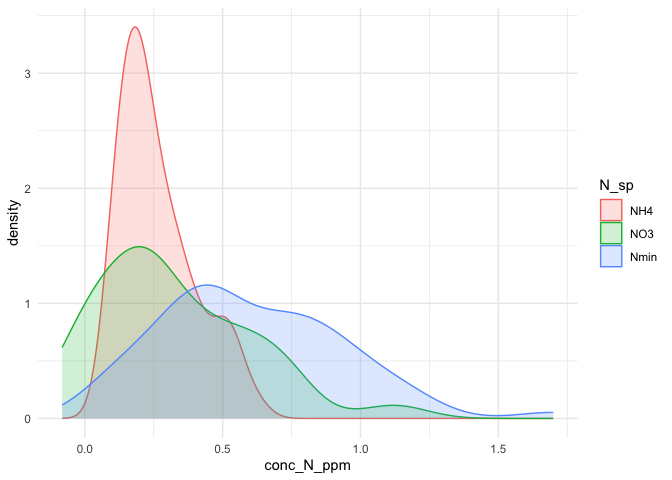
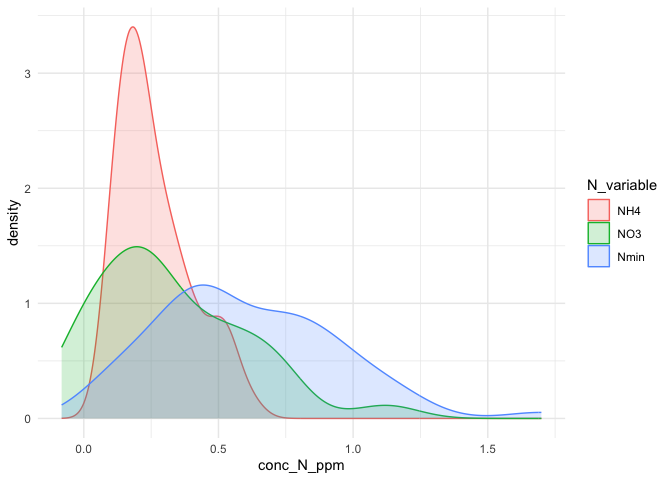
minor changes

diff --git a/5_expl_anal.md b/5_expl_anal.md
@@ -77,30 +77,13 @@ library(RColorBrewer)
 <summary>Code</summary>
 
 ``` r
-Nmin_tfo <- read_rds("output/data/4_Nmin_tfo.rds")
-Nmin_tfo
+Nmin_tfo1 <- read_rds("output/data/4_Nmin_tfo1.rds")
+Nmin_tfo2 <- read_rds("output/data/4_Nmin_tfo2.rds")
+
+#Nmin_tfo1
 ```
 
 </details>
-
-    # A tibble: 180 × 19
-    # Rowwise: 
-       expe  sample_short sd_c  soil  crop_diversity cs    bloc  sampling_time
-       <chr> <chr>        <chr> <fct> <fct>          <fct> <fct> <chr>        
-     1 Pot   1_t2         Conv  Conv  SC             F     B1    t2           
-     2 Pot   1_t2         Conv  Conv  SC             F     B1    t2           
-     3 Pot   1_t2         Conv  Conv  SC             F     B1    t2           
-     4 Pot   2_t2         Conv  Conv  SC             W     B1    t2           
-     5 Pot   2_t2         Conv  Conv  SC             W     B1    t2           
-     6 Pot   2_t2         Conv  Conv  SC             W     B1    t2           
-     7 Pot   3_t2         Conv  Conv  IC             IC    B1    t2           
-     8 Pot   3_t2         Conv  Conv  IC             IC    B1    t2           
-     9 Pot   3_t2         Conv  Conv  IC             IC    B1    t2           
-    10 Pot   5_t2         SdC1  Ref   SC             F     B1    t2           
-    # ℹ 170 more rows
-    # ℹ 11 more variables: plate_id <chr>, N_sp <chr>, dataset <chr>, std_sp <chr>,
-    #   wc <dbl>, dm <dbl>, conc_N_ppm_rt1 <dbl>, conc_N_ppm_rt2 <dbl>,
-    #   conc_N_ppm_rt3 <dbl>, conc_N_ppm_rt4 <dbl>, conc_N_ppm_avg <dbl>
 
 ## 1.2 - plots
 
@@ -116,14 +99,15 @@ average) per N species
 
 ``` r
 # need to pivot to get 4 tech rep in one column. But !! also average will be taken
-Nmin_tfo_longer <- Nmin_tfo |> pivot_longer(
+#** °°°°° Pivot according to rep tech °°°°° *
+Nmin_rep_tech_longer <- Nmin_tfo1 |> pivot_longer(
   cols = starts_with("conc"),
   values_to = "conc_N_ppm",
   names_to = "rep_tech"
 ) 
 
 # plot with all rep techs
-Nmin_tfo_longer |> 
+Nmin_rep_tech_longer |> 
   # filter out the average
   filter(rep_tech != "conc_N_ppm_avg") |> 
   ggplot(aes(x = conc_N_ppm)) +
@@ -143,7 +127,7 @@ Nmin_tfo_longer |>
 
 ``` r
 # plot with averages
-Nmin_tfo_longer |> 
+Nmin_rep_tech_longer |> 
   # filter out the average
   filter(rep_tech == "conc_N_ppm_avg") |> 
   ggplot(aes(x = conc_N_ppm)) +
@@ -164,63 +148,47 @@ Nmin_tfo_longer |>
 <summary>Code</summary>
 
 ``` r
-# To correct NO3, we need to pivot wider so that different N_sp are in different columns
-Nmin_tfo_wider <- Nmin_tfo |> 
-  select(expe:sampling_time, N_sp, conc_N_ppm_avg) |> 
-  pivot_wider(
-    names_from = N_sp,
-    names_prefix = "conc_",
-    values_from = conc_N_ppm_avg
-  ) |> 
-  mutate(
-    conc_NO3_neat = conc_NO3-conc_NO2,
-    conc_Nmin = conc_NO3 + conc_NH4, # NO2 not included here bc it is already included in NO3
-    conc_NO3_Nmin = conc_NO3_neat / conc_Nmin,
-    conc_NH4_NO3 = conc_NH4 / conc_NO3_neat) |> 
-  # remove NO3 so no mistake is made, and rename NO3_neat
-  select(!conc_NO3) |> 
-  rename(conc_NO3 = conc_NO3_neat) 
-
-Nmin_tfo_corrected <- Nmin_tfo_wider |> 
-  # then we re-pivot so plotting with wrap is easy (and without also --° use filter)
+Nmin_N_variable_longer <- Nmin_tfo2 |> 
+  # then we re-pivot so plotting will wrap is easily (and without also --° use filter)
+  #** °°°°° Pivot according to N_variable
   pivot_longer(
     cols = starts_with("conc"),
-    names_to = "N_sp",
+    names_to = "N_variable",
     names_prefix = "conc_",
     values_to = "conc_N_ppm") |> 
   # make N_sp a factor with correct order
-  mutate(N_sp = factor(N_sp, levels = c("NO2", "NH4", "NO3", "Nmin", "NO3_Nmin", "NH4_NO3")))
+  mutate(N_variable = factor(N_variable, levels = c("NO2", "NH4", "NO3", "Nmin", "NO3_Nmin", "NH4_NO3")))
 
-Nmin_tfo_corrected  
+Nmin_N_variable_longer  
 ```
 
 </details>
 
     # A tibble: 360 × 10
-       expe  sample_short sd_c  soil  crop_diversity cs    bloc  sampling_time N_sp 
-       <chr> <chr>        <chr> <fct> <fct>          <fct> <fct> <chr>         <fct>
-     1 Pot   1_t2         Conv  Conv  SC             F     B1    t2            NH4  
-     2 Pot   1_t2         Conv  Conv  SC             F     B1    t2            NO2  
-     3 Pot   1_t2         Conv  Conv  SC             F     B1    t2            NO3  
-     4 Pot   1_t2         Conv  Conv  SC             F     B1    t2            Nmin 
-     5 Pot   1_t2         Conv  Conv  SC             F     B1    t2            NO3_…
-     6 Pot   1_t2         Conv  Conv  SC             F     B1    t2            NH4_…
-     7 Pot   2_t2         Conv  Conv  SC             W     B1    t2            NH4  
-     8 Pot   2_t2         Conv  Conv  SC             W     B1    t2            NO2  
-     9 Pot   2_t2         Conv  Conv  SC             W     B1    t2            NO3  
-    10 Pot   2_t2         Conv  Conv  SC             W     B1    t2            Nmin 
+       expe  sample_short sd_c  soil  crop_diversity cs    bloc  sampling_time
+       <chr> <chr>        <chr> <fct> <fct>          <fct> <fct> <chr>        
+     1 Pot   1_t2         Conv  Conv  SC             F     B1    t2           
+     2 Pot   1_t2         Conv  Conv  SC             F     B1    t2           
+     3 Pot   1_t2         Conv  Conv  SC             F     B1    t2           
+     4 Pot   1_t2         Conv  Conv  SC             F     B1    t2           
+     5 Pot   1_t2         Conv  Conv  SC             F     B1    t2           
+     6 Pot   1_t2         Conv  Conv  SC             F     B1    t2           
+     7 Pot   2_t2         Conv  Conv  SC             W     B1    t2           
+     8 Pot   2_t2         Conv  Conv  SC             W     B1    t2           
+     9 Pot   2_t2         Conv  Conv  SC             W     B1    t2           
+    10 Pot   2_t2         Conv  Conv  SC             W     B1    t2           
     # ℹ 350 more rows
-    # ℹ 1 more variable: conc_N_ppm <dbl>
+    # ℹ 2 more variables: N_variable <fct>, conc_N_ppm <dbl>
 
 <details class="code-fold">
 <summary>Code</summary>
 
 ``` r
-Nmin_tfo_corrected |> 
-  filter(N_sp %ni% c("NO2", "NO3_Nmin", "NH4_NO3")) |> # comment this line to add NO2 again
+Nmin_N_variable_longer |> 
+  filter(N_variable %ni% c("NO2", "NO3_Nmin", "NH4_NO3")) |> # comment this line to add NO2 again
   ggplot(aes(x = conc_N_ppm)) +
   theme_minimal() +
-  geom_density(aes(color = N_sp, fill = N_sp), alpha = 0.2) #+
+  geom_density(aes(color = N_variable, fill = N_variable), alpha = 0.2) #+
 ```
 
 </details>
@@ -244,12 +212,12 @@ Look at NO3 and NH4
 <summary>Code</summary>
 
 ``` r
-Nmin_tfo_corrected |> 
-  filter(N_sp %in% c("NH4", "NO3")) |> 
+Nmin_N_variable_longer |> 
+  filter(N_variable %in% c("NH4", "NO3")) |> 
   ggplot(aes(x = soil, y = conc_N_ppm)) +
   theme_minimal() +
   geom_boxplot(aes(fill = cs)) +
-  facet_wrap(~N_sp, nrow = 2, scales = "free_y") +
+  facet_wrap(~N_variable, nrow = 2, scales = "free_y") +
   scale_fill_discrete(palette = "Accent")
 ```
 
@@ -263,12 +231,12 @@ Look at Nmin and ratios
 <summary>Code</summary>
 
 ``` r
-Nmin_tfo_corrected |> 
-  filter(N_sp %in% c("Nmin", "NO3_Nmin")) |> 
+Nmin_N_variable_longer |> 
+  filter(N_variable %in% c("Nmin", "NO3_Nmin")) |> 
   ggplot(aes(x = soil, y = conc_N_ppm)) +
   theme_minimal() +
   geom_boxplot(aes(fill = cs)) +
-  facet_wrap(~N_sp, nrow = 2, scales = "free_y") +
+  facet_wrap(~N_variable, nrow = 2, scales = "free_y") +
   scale_fill_discrete(palette = "Accent")
 ```
 
@@ -282,7 +250,7 @@ Look at relationship between NO3 and NH4
 <summary>Code</summary>
 
 ``` r
-Nmin_tfo_wider |>
+Nmin_tfo2 |>
   ggplot(aes(x = conc_NH4, y = conc_NO3)) +
   theme_minimal() +
   geom_point() #+
@@ -307,7 +275,7 @@ And between NO3 and Nmin
 <summary>Code</summary>
 
 ``` r
-Nmin_tfo_wider |>
+Nmin_tfo2 |>
   ggplot(aes(x = conc_NO3, y = conc_Nmin)) +
   theme_minimal() +
   geom_point() #+

diff --git a/4_data_transformation.md b/4_data_transformation.md
@@ -95,8 +95,16 @@ in ppm (mg/kg dry soil)
 vol_extr <- 20
 
 # 
-Nmin_tfo <- Nmin |> 
-  # Compute dm
+Nmin_tfo1 <- Nmin |> 
+  
+  #** °°°°° first, update format of variables °°°°° *
+  mutate(
+    soil = factor(soil, levels = c("Conv", "Ref", "Auto", "ABC")),
+    crop_diversity = factor(crop_diversity, levels = c("SC", "IC")),
+    cs = factor(cs, levels = c("F", "IC", "W")),
+    bloc = as.factor(bloc)
+  ) |> 
+  #** °°°°° Compute dm °°°°° *
   mutate(
     # subtract tare from gross fresh weight
     flush_dm_neat_fw_tr1 = flush_dm_g_fw_tr1 - flush_dm_tare_tr1,
@@ -116,11 +124,12 @@ Nmin_tfo <- Nmin |>
     dm = flush_dm_avg_dw / flush_dm_avg_fw,
     # compute water content
     wc = 1- dm,
-    # compute each sample's individual ratio (~10g moist per 20 ml)
+    
+    #** °°°°° compute each sample's individual ratio (~10g moist per 20 ml) °°°°° *
     ratio = flush_fw_nf_g / vol_extr,
     .keep = "unused"
   ) |> 
-  # Convert concentrations in mg/L to mg/kg
+  #** °°°°° Convert concentrations in mg/L to mg/kg °°°°° *
   mutate(
     conc_N_ppm_rt1 = unlist(conc_N_Lrt1) / (ratio*dm),
     conc_N_ppm_rt2 = unlist(conc_N_Lrt2) / (ratio*dm),
@@ -142,30 +151,51 @@ Nmin_tfo <- Nmin |>
 
 </details>
 
-Then, we update format of variables
+Then, we correct NO3 (subtract NO2) and compute new variables: Nmin
+(ppm) NO3/Nmin ratio and NH4/NO3 ratio. For that, we need to pivot wider
+so that different N_sp are in different columns.
 
 <details class="code-fold">
 <summary>Code</summary>
 
 ``` r
-Nmin_export <- Nmin_tfo |> 
+Nmin_tfo2 <- Nmin_tfo1 |> 
+  #** °°°°° select relevant columns and pivot wider °°°°° *
+  select(expe:sampling_time, N_sp, conc_N_ppm_avg) |> 
+  pivot_wider(
+    names_from = N_sp,
+    names_prefix = "conc_",
+    values_from = conc_N_ppm_avg
+  ) |> 
+  #** °°°°° Compute new variables °°°°° *
   mutate(
-    soil = factor(soil, levels = c("Conv", "Ref", "Auto", "ABC")),
-    crop_diversity = factor(crop_diversity, levels = c("SC", "IC")),
-    cs = factor(cs, levels = c("F", "IC", "W")),
-    bloc = as.factor(bloc)
-  )
+    conc_NO3_neat = conc_NO3-conc_NO2,
+    conc_Nmin = conc_NO3 + conc_NH4, # NO2 not included here bc it is already included in NO3
+    conc_NO3_Nmin = conc_NO3_neat / conc_Nmin,
+    conc_NH4_NO3 = conc_NH4 / conc_NO3_neat) |> 
+  #** °°°°° remove NO3 so no mistake is made, and rename NO3_neat °°°°° *
+  select(!conc_NO3) |> 
+  rename(conc_NO3 = conc_NO3_neat) 
 ```
 
 </details>
 
 ## 1.3 - Export
 
+It would have made no biological sense to compute these new variables on
+the technical replicates which represent the noise from 4 wells of the
+96-well plate, but the first well of NO3 has no direct relation to the
+first well of NO2, etc. Thus we pivot from the average value. This means
+that in the pivot table, single values of individual technical
+replicates get lost. In order to not lose that information (just in
+case), we will export both tables (pivoted and unpivoted)
+
 <details class="code-fold">
 <summary>Code</summary>
 
 ``` r
-Nmin_export |> write_rds("output/data/4_Nmin_tfo.rds")
+Nmin_tfo1 |> write_rds("output/data/4_Nmin_tfo1.rds")
+Nmin_tfo2 |> write_rds("output/data/4_Nmin_tfo2.rds")
 ```
 
 </details>